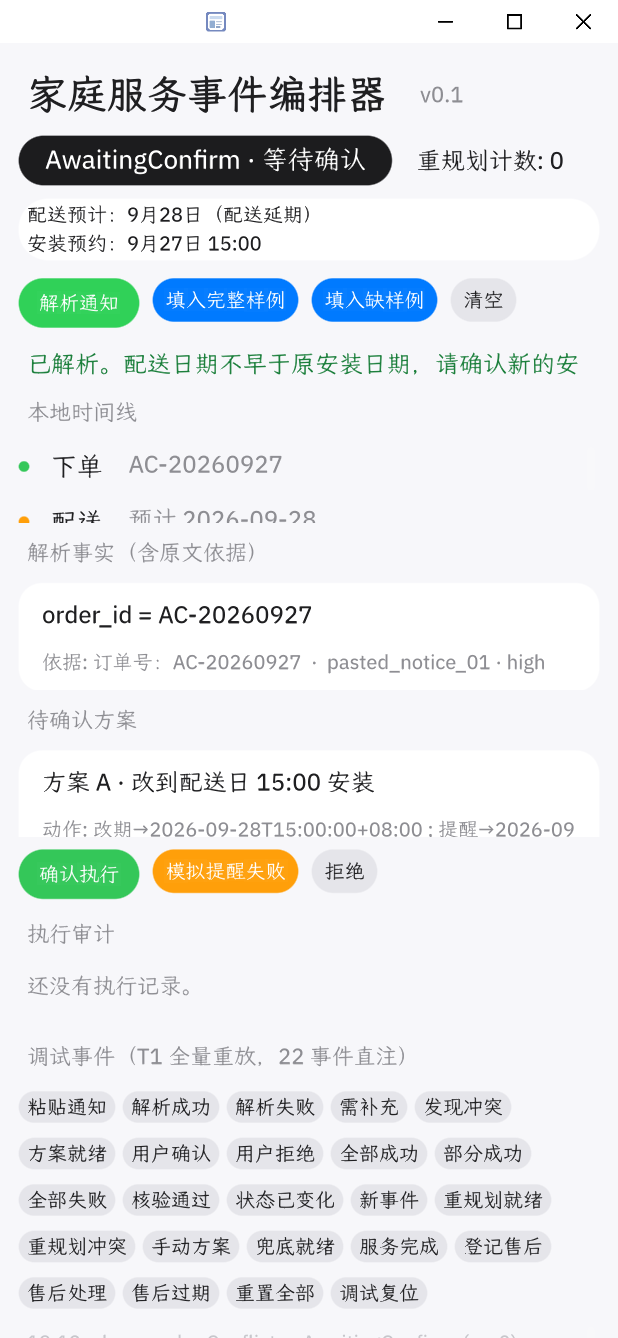
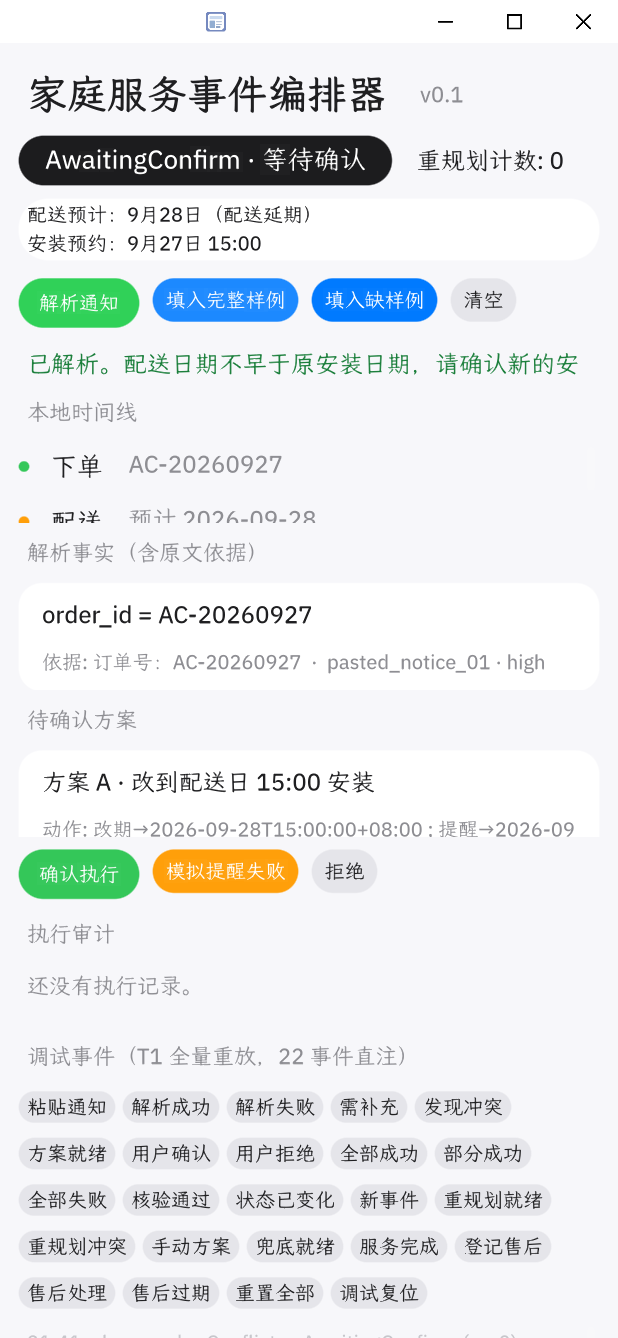
fix(F-01): delivery_status source_quote uses the exact matched phrase; release 0.1.1
- main.splash: regex(...).test() + hardcoded '配送延期' -> regex(...).exec() +
  matched value, so every fact's quote is verbatim from the input
- verified: 配送延迟/推迟/配送延期 -> quotes 延迟/推迟/延期, each literal in input
- regression R1-R4 pass on 0.1.1 (unsigned for test, signed last), 0 [E]
- screenshots retaken on 0.1.1; review packet regenerated
- signed: hub check --publisher-key -> dev.aster.fso 0.1.1 PASSED
- submitted 0.1.0 and its signature stay untouched (per outer-loop decision)

Changed region(s): [[0.246, 0.1839, 0.4919, 0.2451]]

diff --git a/build/f01_check.py b/build/f01_check.py
@@ -1,0 +1,88 @@
+#!/usr/bin/env python3
+"""F-01 regression: delivery_status source_quote must be the exact matched phrase."""
+import json
+import os
+import subprocess
+import time
+import urllib.parse
+import urllib.request
+
+PORT = 8142
+BASE = f"http://127.0.0.1:{PORT}"
+WS = r"C:\Users\lsy\Desktop\课程设计\agenticapp-hackathon"
+APP = os.path.join(WS, "apps", "family-orchestrator")
+FLOW = os.path.join(WS, "OctoScript-App-Design-Flow")
+STATE = os.path.join(APP, ".local-state", "dev.aster.fso", "state.json")
+os.environ["OCTO_HUB"] = os.path.join(WS, "OctoSense-App-Hub", "target", "release", "hub.exe")
+os.environ["OCTO_CARD_HOST"] = os.path.join(WS, "OctoSense-App-Hub", "target", "release", "card-host.exe")
+
+def get(path):
+    with urllib.request.urlopen(BASE + path, timeout=15) as r:
+        return r.read()
+
+def snap():
+    return json.loads(get("/snap").decode("utf-8"))
+
+def click_id(wid):
+    for w in snap()["s"]:
+        if w.get("i") == wid:
+            x, y, ww, hh = w["r"]
+            get(f"/click?x={int(x+ww/2)}&y={int(y+hh/2)}&wait=1")
+            time.sleep(0.3)
+            return
+    raise RuntimeError("widget not found: " + wid)
+
+def click_text(text):
+    for w in snap()["s"]:
+        t = w.get("t")
+        if t and text in t and w.get("ty") == "Button":
+            x, y, ww, hh = w["r"]
+            get(f"/click?x={int(x+ww/2)}&y={int(y+hh/2)}&wait=1")
+            time.sleep(0.3)
+            return
+    raise RuntimeError("button not found: " + text)
+
+def type_text(s):
+    get("/t?t=" + urllib.parse.quote(s) + "&wait=1")
+    time.sleep(0.3)
+
+def delivery_status_fact():
+    st = json.load(open(STATE, encoding="utf-8"))
+    for f in st["parsed"]["facts"]:
+        if f["field"] == "delivery_status":
+            return f
+    return None
+
+cases = [
+    ("订单号：AC-1\n配送预计：9月28日\n安装预约：9月27日 15:00\n配送延迟", "延迟"),
+    ("订单号：AC-2\n配送预计：9月28日\n安装预约：9月27日 15:00\n到货推迟", "推迟"),
+    ("订单号：AC-3\n配送预计：9月28日（配送延期）\n安装预约：9月27日 15:00", "延期"),
+]
+
+# ensure fresh app
+subprocess.run(["taskkill", "/IM", "card-host.exe", "/F"], capture_output=True)
+time.sleep(2)
+subprocess.run(["python", "tools/octo", "run", os.path.join(APP, "bundle"), "--port", str(PORT),
+                "--hidden", "--detach"], cwd=FLOW, capture_output=True, timeout=120)
+time.sleep(1.5)
+
+ok = True
+for notice, expect in cases:
+    click_text("重置全部")
+    click_id("input_area")
+    type_text(notice)
+    click_text("解析通知")
+    f = delivery_status_fact()
+    if f is None:
+        print(f"FAIL  {expect}: no delivery_status fact produced")
+        ok = False
+        continue
+    exact = f["source_quote"] == expect
+    # quote must also literally occur in the input
+    in_input = f["source_quote"] in notice
+    print(f"{'PASS' if exact and in_input else 'FAIL'}  输入含「{expect}」-> source_quote={f['source_quote']!r} "
+          f"(exact={exact}, occurs_in_input={in_input})")
+    ok = ok and exact and in_input
+
+get("/quit")
+print("F-01 RESULT:", "FIXED" if ok else "STILL BROKEN")

diff --git a/OUTER_LOOP_REVIEW.md b/OUTER_LOOP_REVIEW.md
@@ -308,3 +308,51 @@ release_decision=keep submitted 0.1.0; queue F-01 for signed follow-up release
 **关键发现（修正此前认知）**：初赛提交渠道不是 OctoSense-App-Hub 的 `Submit` issue，而是赛事官方仓库 `gosimfoundation/hackathon-agenticapp26` 的 issue #13（"请在这里提交每支队伍的初赛仓库地址"），格式为"队伍名 + GitHub 仓库地址"。赛事文档《作品提交与 OctoSense App Hub》明确："现阶段各轮评审以公开源码仓库和可运行作品为准，**无需等待 Hub 上架**"；Hub 预检（stamp/check/scan）是本地动作。App Hub 的 Submit issue 属**商店上架**路径，非初赛必需。
 
 **另修复一处真实缺陷**：`.gitignore` 的 `*.png` 曾把 `bundle/screenshots/` 三张截图排除在版本控制外（仓库里 listing.json 引用的截图实际不存在）。已改为仅忽略 `debug-t1*.png`，截图入库；因 bundle 文件字节未变，签名仍然有效（重跑 check 确认 PASSED）。
+
+---
+
+## ACK F-01 修复 · 2026-10-01（内环）· 发布 0.1.1
+
+**验证级别：`verified`（本修复范围内；签名用公钥复验通过）**
+
+外环裁定 `F-01 (P1)` 后，内环按建议完成修复并发布签名修订版 `0.1.1`。
+
+**修复**（`bundle/main.splash`，原 316-318 行）：
+```splash
+// 之前：判断用了 test()，引用是硬编码字符串
+if regex("延期|延迟|推迟").test(text) {
+    facts.push(mk_fact("delivery_status", "delayed", "配送延期", sid, "high"))
+}
+// 现在：捕获实际命中的片段作为引用
+let delay = regex("延期|延迟|推迟").exec(text)
+if delay != nil {
+    facts.push(mk_fact("delivery_status", "delayed", delay.value.trim(), sid, "high"))
+}
+```
+
+**验证证据**（`build/f01_check.py`，远程桥驱动 + `state.json` 数据级核验）：
+
+| 输入包含 | `source_quote` | 精确等于命中片段 | 逐字出现在输入中 |
+| --- | --- | --- | --- |
+| 配送延迟 | `延迟` | ✓ | ✓ |
+| 到货推迟 | `推迟` | ✓ | ✓ |
+| （配送延期） | `延期` | ✓ | ✓ |
+
+`F-01 RESULT: FIXED`
+
+**回归**（在去签名的 0.1.1 上跑，签名在最后）：
+- R1 完整通知→解析（AwaitingConfirm）→确认（Following）✓
+- R2 重复确认拦截 ✓
+- R3 模拟提醒失败→Partial→重试→Following ✓；审计三行 `[create_reminder success, create_reminder warn, reschedule_installation success]` ✓
+- R4 重启恢复：`Following` + 3 行审计 ✓
+- 运行日志 0 个 `[E]`；`delivery_status` 事实现为 `{value: "delayed", source_quote: "延期", source_id: "pasted_notice_01", confidence: "high"}` ✓
+- 三张 listing 截图在 0.1.1 上重拍并人工查验
+
+**签名**：`hub stamp` → `sign-manifest --key-id yyyxyyypsg` → `check --publisher-key`：
+`dev.aster.fso 0.1.1 — PASSED`（无未签名警告）。审核包 `build/review.json` 已按 0.1.1 重新生成（用去签名副本生成，因 `hub scan` 对未注册发布者的已签名包会拒绝）。
+
+**说明与遗留**：
+- `0.1.0` 的签名与初赛提交（issue #13）**保持不变**，符合外环 "keep submitted 0.1.0" 的裁定；0.1.1 为后续修订版。
+- UI 标题栏的 `v0.1` 是**系列标签**（非 manifest 版本号），与演示视频（录制于 0.1.0）一致；如需显示精确版本请新开任务。
+- JS 原型 `family-service-orchestrator/src/parser.js:94` 存在**同样的硬编码**（`'配送延期'`）。该文件不在规范基线与提交物内，本次未改动，仅记录以备后续对照。
+- 待外环复验 0.1.1（公钥复验 + F-01 抽查）。

diff --git a/build/REVIEW-ANSWERS.md b/build/REVIEW-ANSWERS.md
@@ -1,7 +1,11 @@
-# REVIEW-ANSWERS — dev.aster.fso 0.1.0
+# REVIEW-ANSWERS — dev.aster.fso 0.1.1
 
-依据：`build/review.json`（2026-10-01 由 `hub scan bundle --packet build/review.json` 生成，
-对应工作树 bundle，与提交 `10bc914` 的 bundle 字节一致）。回答人为内环，外环/人可修订。
+依据：`build/review.json`（由 `hub scan` 生成，对应 0.1.1 内容）。回答人为内环，外环/人可修订。
+
+> **0.1.1 变更**：修复外环发现的 `F-01` —— 配送延误事实的 `source_quote` 原先固定写作
+> 「配送延期」，现改为写入正则实际命中的原文片段（`delay.value.trim()`）。已验证输入
+> 「配送延迟」「推迟」「配送延期」分别得到引用 `延迟`/`推迟`/`延期`，且都逐字出现在输入中。
+> 其余行为与已提交的 0.1.0 一致。
 
 ## 1. Does the app do what its name, subtitle and description claim? Cite the text in its source.
 
